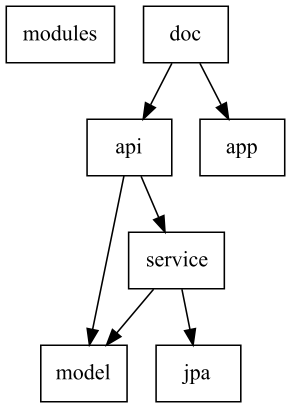
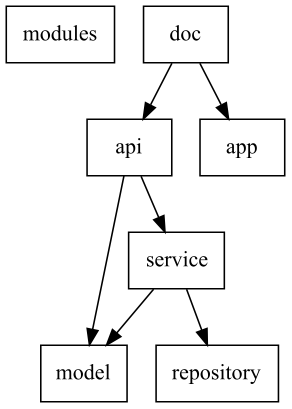
Add README

Changed region(s): [[0.5856, 0.8215, 0.9863, 0.9976], [0.6164, 0.7042, 0.7397, 0.8509]]

diff --git a/README.md b/README.md
@@ -5,3 +5,18 @@ This server contains a read-only embedded database with dictionaries for rhymes,
 Refer to the [documentation](https://caarmen.github.io/poet-assistant-server)
 for the list of endpoints and how to use them.
 
+## Architecture
+The app contains the following modules:
+
+<img src="dependency-graph-poet-assistant.png">
+
+* Bottom:
+  - `repository`: Accesses the database and exposes functions to retrieve Entities
+* Top:
+  - `model`: Provides the data classes (POJOs) which are serialized from/to json in requests/responses
+  - `api`: Defines the REST endpoints
+* Middle:
+  - `service`:  Contains the business logic required to map Entities to Model objects
+* Other:
+  - `doc`: Generates documentation
+  - `app`: Contains the application class
